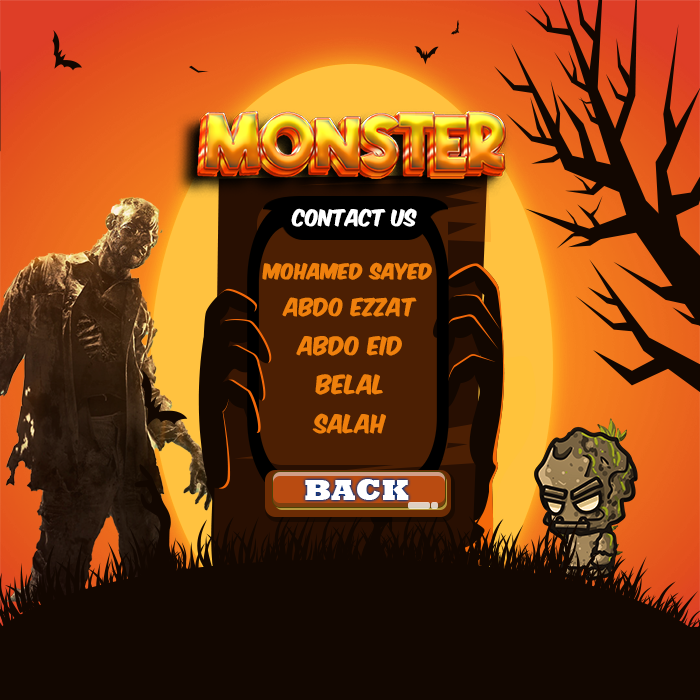
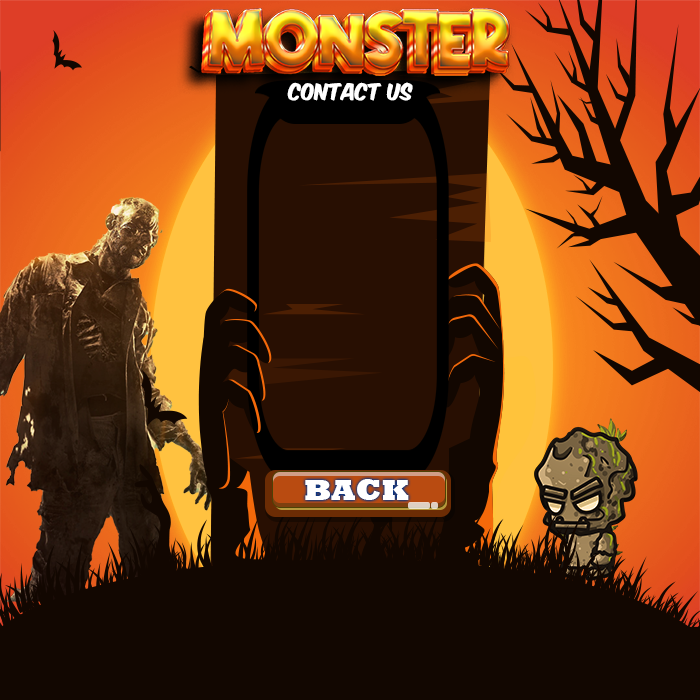
created animation and fixed some bugs

Changed region(s): [[0.24, 0.0, 0.75, 0.81]]

diff --git a/Guns.java b/Guns.java
@@ -23,18 +23,16 @@ public class Guns implements GLEventListener, KeyListener, MouseListener, MouseM
   //boolean xm = false;
   int m,cont ,cont2;
   String score = "0" , score2="0";
+
+  //names
+
+  int s, a, a1, m1 ,b ;
   TextRenderer ren = new TextRenderer(new Font("Rockwell Extra Bold", Font.BOLD, 25));
 
 
 
 
-//  public void setX(int x) {
-//    this.x = x;
-//  }
-//
-//  public int getX() {
-//    return x;
-//  }
+
   static String name , name1 ;
 
   //TextRenderer ren = new TextRenderer(new Font("Rockwell Extra Bold", Font.BOLD, 25));
@@ -72,30 +70,33 @@ public class Guns implements GLEventListener, KeyListener, MouseListener, MouseM
   String textureNames[] = {
           //Pages
           "HOME\\Monster(Home).png","Page 2(Single vs MULTI)\\Monster(Single vs Multi).png","INSTRUCTIONS\\Monster(instructions).png","OPTIONS\\OPTIONS.png ",// 3
-          "CONTACT_US\\CONTACT_US.png","LEVELS\\Monster(levels).png",  //  5
+          "CONTACT_US\\CONTACT_US.png","LEVELS\\Monster(levels).png",  //  4
 
           //Background game
-          "Background game\\background.png",  // 6
+          "Background game\\background.png",  // 5
 
           //Bullet2
-          "Balloon1.png",//7
+          "Balloon1.png",//6
 
           //Soldier 1
-          "MAN\\Man1_right.png","MAN\\Man2_right.png","MAN\\Man3_right.png","MAN\\Man4_right.png",//  11
+          "MAN\\Man1_right.png","MAN\\Man2_right.png","MAN\\Man3_right.png","MAN\\Man4_right.png",//  10
 
           //Soldier2
-          "RedMan\\RedMan1_right-1.png","RedMan\\RedMan2_right-1.png","RedMan\\RedMan3_right-1.png","RedMan\\RedMan4_right-1.png",// 15
+          "RedMan\\RedMan1_right-1.png","RedMan\\RedMan2_right-1.png","RedMan\\RedMan3_right-1.png","RedMan\\RedMan4_right-1.png",// 14
 
           //Enemies
           "Running Monster\\0_Golem_Running_001-1.png","Running Monster\\0_Golem_Running_002-1.png","Running Monster\\0_Golem_Running_003-1.png",  //  18
           "Running Monster\\0_Golem_Running_004-1.png","Running Monster\\0_Golem_Running_005-1.png","Running Monster\\0_Golem_Running_006-1.png"  //22
-          ,"Running Monster\\0_Golem_Running_007-1.png","Running Monster\\0_Golem_Running_007-1.png",//24
+          ,"Running Monster\\0_Golem_Running_007-1.png","Running Monster\\0_Golem_Running_007-1.png",//23
 
           //pause
-          "PAUSE.png",//25
+          "PAUSE.png",//24
 
           //Bullet1
-          "B1.png"//26
+          "B1.png",//25
+
+          //names
+          "names\\belal.png","names\\eid.png","names\\ezzar.png","names\\gedo.png","names\\salah.png"//30
   };
   TextureReader.Texture texture[] = new TextureReader.Texture[textureNames.length];
   int textures[] = new int[textureNames.length];
@@ -155,8 +156,7 @@ else stopmusic();
       DrawBackground(3, gl);
 
     } else if (pages == "CONTACT_US") {
-      DrawBackground(4, gl);
-
+      drawcreadits(gl);
     } else if (pages == "SINGLE") {
       DrawBackground(5, gl);
 
@@ -517,7 +517,7 @@ else stopmusic();
   //Bullets1
   void TO_Draw_One_Bullet1(GL gl, int x, int y) {
     gl.glEnable(GL.GL_BLEND);
-    gl.glBindTexture(GL.GL_TEXTURE_2D, textures[textureNames.length-1]);
+    gl.glBindTexture(GL.GL_TEXTURE_2D, textures[25]);
     gl.glPushMatrix();
     gl.glTranslated(X(x)  / (Max_Screen_X / 2.0) -0.84 , Y(y) / 1.4 / (Max_Screen_Y / 2.0) -0.77 , 0);
     gl.glScaled(0.02 , 0.02 , 1);
@@ -1228,7 +1228,7 @@ else stopmusic();
   public void drawtime() {
     ren.beginRendering(700, 700);
     ren.setColor(Color.BLUE);
-    ren.draw ("" + t , 439, 635);
+    ren.draw ("" + t , 431, 635);
     ren.setColor(Color.WHITE);
     ren.endRendering();
   }
@@ -1247,4 +1247,65 @@ else stopmusic();
     ren.setColor(Color.WHITE);
     ren.endRendering();
   }
+
+  public void drawcreadits(GL gl) {
+
+    DrawBackground(4, gl);
+   Drawnames(gl, 320, s+285, textureNames.length-1, 2.5f);
+    Drawnames(gl, 320, b+285, 26, 2.5f);
+    Drawnames(gl, 320, a+285, 27, 2.5f);
+    Drawnames(gl, 320, a1+285, 28, 2.5f);
+    Drawnames(gl, 320, m1+285, 29, 2.5f);
+
+
+    m1 += 5;
+    a1 += 5;
+    a += 5;
+    b += 5;
+    s += 5;
+
+    if (s == 200) {
+      s = -5;
+    }
+   if (b == 200) {
+      b = -5;
+   }
+  if (a == 200) {
+     a= -5;
+   }
+    if (a1 == 200) {
+     a1 = -5;
+   }
+    if (m1 == 200) {
+      m1 = -5;
+    }
+  }
+// names
+  public void Drawnames(GL gl, int x, int y, int index, float scale) {
+    gl.glEnable(GL.GL_BLEND);
+    gl.glBindTexture(GL.GL_TEXTURE_2D, textures[index]);
+
+    gl.glPushMatrix();
+
+    gl.glTranslated(x / (Max_Screen_X / 2.0) - 0.9, y / (Max_Screen_Y / 2.0) - 0.9, 0);
+
+    gl.glScaled(0.3 * scale, 0.3 * scale, 1);
+
+    gl.glBegin(GL.GL_QUADS);
+    gl.glTexCoord2f(0.0f, 0.0f);
+    gl.glVertex3f(-1.0f, -1.0f, -1.0f);
+    gl.glTexCoord2f(1.0f, 0.0f);
+    gl.glVertex3f(1.0f, -1.0f, -1.0f);
+    gl.glTexCoord2f(1.0f, 1.0f);
+    gl.glVertex3f(1.0f, 1.0f, -1.0f);
+    gl.glTexCoord2f(0.0f, 1.0f);
+    gl.glVertex3f(-1.0f, 1.0f, -1.0f);
+    gl.glEnd();
+    gl.glPopMatrix();
+
+    gl.glDisable(GL.GL_BLEND);
+  }
+
+
+
 }

diff --git a/GunGame.java b/GunGame.java
@@ -19,6 +19,7 @@ public class GunGame extends JFrame {
   public GunGame() {
     super("Gun Game");
     setDefaultCloseOperation(JFrame.EXIT_ON_CLOSE);
+    setResizable(false);
     glcanvas.addGLEventListener(listener);
     animator.add(glcanvas);
     glcanvas.addKeyListener(listener);
